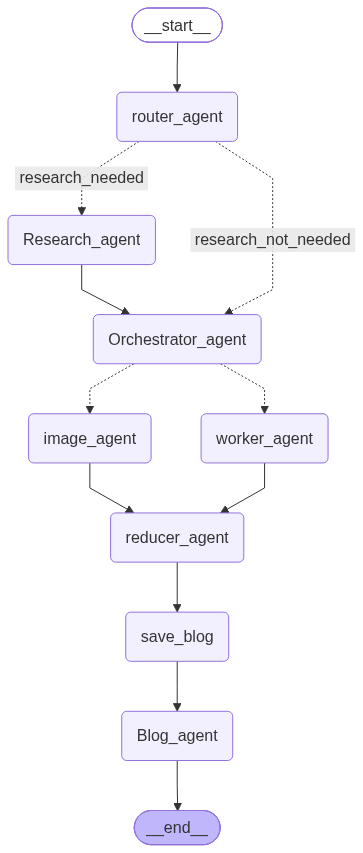
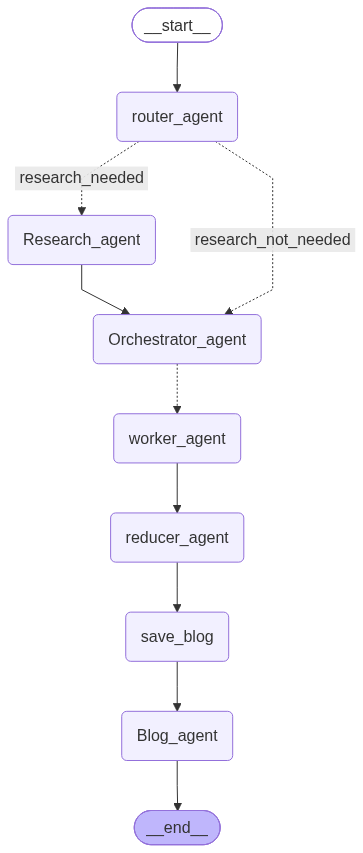
updated code with removal of image

diff --git a/main.py b/main.py
@@ -7,7 +7,6 @@ from research import Research_node
 from orchestrator import planner_agent
 from reducer import reducer_node
 from worker import worker_node
-from image_agent import image_node
 from blogagent import blog_agent
 import os
 # Create the main agent writer graph.
@@ -19,7 +18,6 @@ AgentWriter.add_node("Research_agent", Research_node)
 AgentWriter.add_node("Orchestrator_agent", planner_agent)
 AgentWriter.add_node("reducer_agent", reducer_node)
 AgentWriter.add_node("worker_agent", worker_node)
-AgentWriter.add_node("image_agent", image_node)
 AgentWriter.add_node("Blog_agent",blog_agent)
 
 
@@ -58,30 +56,13 @@ AgentWriter.add_conditional_edges(
 AgentWriter.add_edge("Research_agent", "Orchestrator_agent")
 
 
-# Fan out tasks to worker and image agents in parallel.
+# Fan out tasks to workers in parallel.
 def fanout_tasks(state: AgentWriterState):
     print("\nRunning fanout_tasks...")
     sends = []
     worker_count = len(state["plan"].tasks)
-    image_count = sum(
-        1 for task in state["plan"].tasks if getattr(task, "requires_image", False)
-    )
-    print(
-        f"Planning {worker_count} blog sections and {image_count} image tasks "
-        f"({worker_count + image_count} total dispatches)."
-    )
+    print(f"Planning {worker_count} blog sections (no image tasks).")
     for task in state["plan"].tasks:
-        # Send image tasks to the image agent if needed.
-        if getattr(task, "requires_image", False):
-            sends.append(
-                Send(
-                    "image_agent",
-                    {
-                        "task": task,
-                        "image_prompt": f"Create a blog illustration for: {task.title}",
-                    },
-                )
-            )
         # Send every task to a worker agent to write the section.
         sends.append(
             Send(
@@ -96,7 +77,7 @@ def fanout_tasks(state: AgentWriterState):
         )
     print(
         f"✅ END fanout_tasks: {worker_count} worker sections, "
-        f"{image_count} image tasks, {len(sends)} total dispatches"
+        f"{len(sends)} total dispatches"
     )
     return sends
 
@@ -105,12 +86,11 @@ def fanout_tasks(state: AgentWriterState):
 AgentWriter.add_conditional_edges(
     "Orchestrator_agent",
     fanout_tasks,
-    ["worker_agent", "image_agent"],
+    ["worker_agent"],
 )
 
 # After all workers and image agents finish, reduce into the final blog.
 AgentWriter.add_edge("worker_agent", "reducer_agent")
-AgentWriter.add_edge("image_agent", "reducer_agent")
 AgentWriter.add_edge("reducer_agent", "save_blog")
 AgentWriter.add_edge("save_blog", "Blog_agent")
 AgentWriter.add_edge("Blog_agent", END)

diff --git a/reducer.py b/reducer.py
@@ -15,53 +15,32 @@ def _remove_duplicate_section_heading(content: str, title: str) -> str:
     return "\n".join(lines).strip()
 
 
-def _image_markdown(image_output: dict, title: str) -> str:
-    """Build the Markdown image block for a successfully saved image."""
-    image_path = str(image_output.get("image_path") or "").strip()
-    if not image_path:
-        return ""
-    return f"![{title}]({image_path})"
-
-
 # Reducer agent combines all written sections into one final blog.
 def reducer_node(state: ReducerState):
     print("\nRunning reducer_node...")
     plan = state["plan"]
     section_outputs = state["section_outputs"]
-    image_outputs = state.get("image_outputs", [])
     print(
         f"Reducer received {len(section_outputs)}/{len(plan.tasks)} worker sections "
-        f"and {len(image_outputs)} image outputs."
+        "without image outputs."
     )
     sections_by_id = {
         section.get("task_id"): section
         for section in section_outputs
         if section.get("task_id")
     }
-    images_by_id = {
-        image.get("task_id"): image
-        for image in image_outputs
-        if image.get("task_id")
-    }
-
     markdown_parts = [f"# {plan.blog_title}"]
-    merged_image_count = 0
     for task in plan.tasks:
         section = sections_by_id.get(task.id)
         if not section:
             raise ValueError(f"Missing worker output for task {task.id}: {task.title}")
 
         markdown_parts.append(f"## {task.title}")
-        image_markdown = _image_markdown(images_by_id.get(task.id, {}), task.title)
-        if image_markdown:
-            markdown_parts.append(image_markdown)
-            merged_image_count += 1
         markdown_parts.append(
             _remove_duplicate_section_heading(section["content"], task.title)
         )
 
     final_blog = "\n\n".join(markdown_parts).strip() + "\n"
-    print(f"Merged {merged_image_count} image(s) into final Markdown.")
     print("Finished reducer_node.")
     return {
         "final_blog": final_blog

diff --git a/orchestrator.py b/orchestrator.py
@@ -42,14 +42,13 @@ The tasks should be a list of Task objects and each task should include:
 - requires_research
 - requires_citations
 - requires_code
-- requires_image (set to true for sections that would benefit from a visual illustration)
+- requires_image (always set to false)
 
 Hard requirements:
 - Create 5 to 9 tasks suitable for the topic and audience.
 - Include an introduction task first and a conclusion task last; use the
     remaining tasks for the main topic sections.
-- Mark one or two main sections as requires_image=true when a diagram,
-    architecture view, workflow, or comparison visual would improve the article.
+- Do not plan image generation or image assets for any section.
 - The goal must be exactly one sentence.
 - Each task must contain 3 to 6 concrete, specific, non-overlapping bullets.
 - Set target_words between 120 and 550 for every task.
@@ -68,6 +67,14 @@ Research Report:
 
     # Ask the LLM to generate the blog plan.
     response = structured_llm.invoke(messages)
+    response = response.model_copy(
+        update={
+            "tasks": [
+                task.model_copy(update={"requires_image": False})
+                for task in response.tasks
+            ]
+        }
+    )
     print("Finished planner_agent.")
     return {"plan": response}
 
